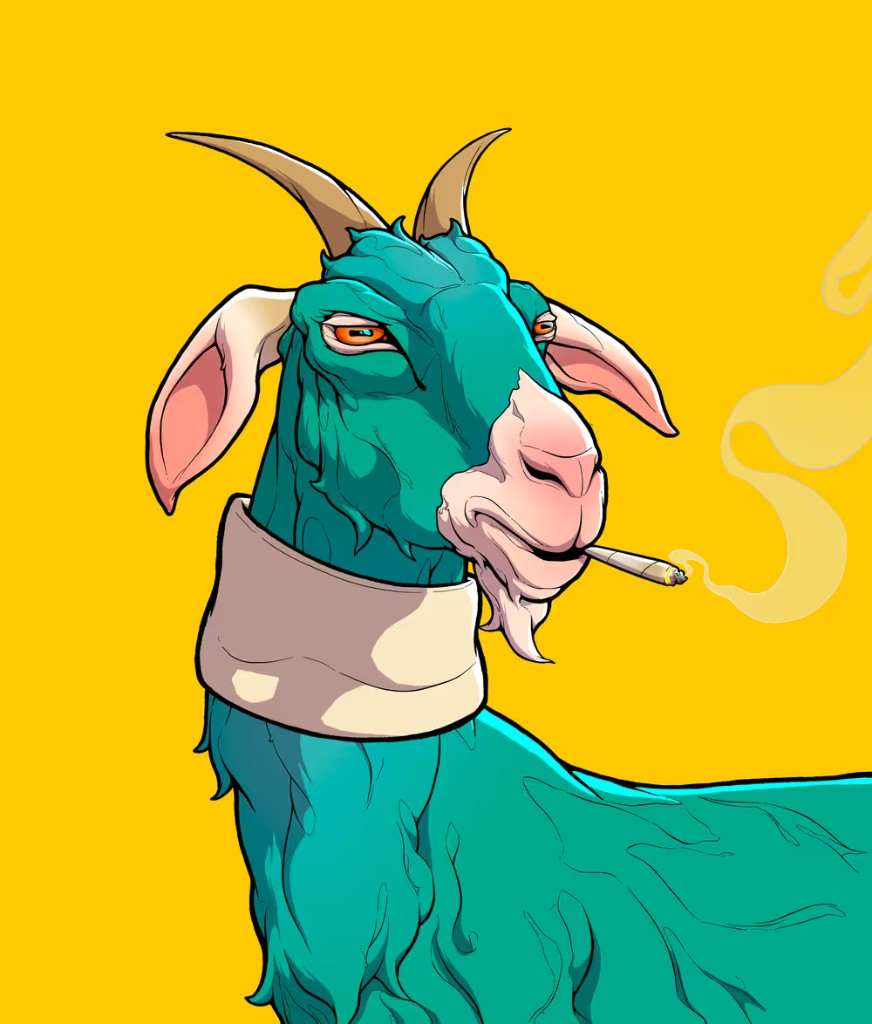
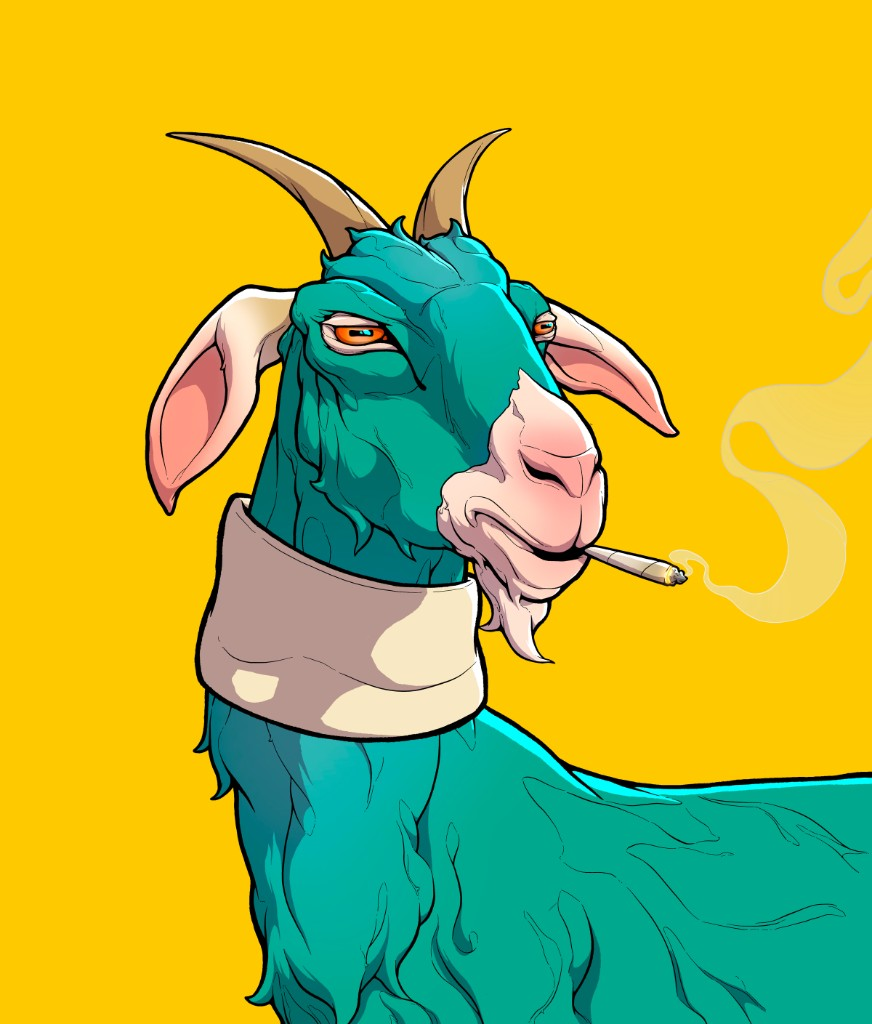
Add centered Team page cards with hover scale and blue names

diff --git a/src/styles/components/team-page.css b/src/styles/components/team-page.css
@@ -1,0 +1,60 @@
+.c-team-page {
+  min-height: 100%;
+  padding: clamp(2rem, 6vh, 4rem) clamp(1.25rem, 4vw, 3.5rem);
+}
+
+.c-team-grid {
+  max-width: 70rem;
+  margin: 0 auto;
+  display: grid;
+  grid-template-columns: repeat(2, minmax(0, 1fr));
+  gap: clamp(1.5rem, 4vw, 2.5rem);
+  justify-items: center;
+}
+
+.c-team-card {
+  width: min(100%, 24rem);
+  display: flex;
+  flex-direction: column;
+  align-items: center;
+  text-align: center;
+}
+
+.c-team-card__image {
+  width: min(100%, 22rem);
+  border-radius: 1rem;
+  object-fit: cover;
+  transition: transform 180ms ease;
+  transform-origin: center;
+}
+
+.c-team-card:hover .c-team-card__image,
+.c-team-card:focus-within .c-team-card__image {
+  transform: scale(1.04);
+}
+
+.c-team-card__name {
+  margin: 0.9rem 0 0;
+  font-family: var(--font-display);
+  font-size: clamp(1.2rem, 2.8vw, 1.8rem);
+  font-weight: var(--font-weight-bold);
+  letter-spacing: 0.05em;
+  color: var(--color-accent-soft);
+  text-transform: uppercase;
+}
+
+.c-team-card__role {
+  margin: 0.35rem 0 0;
+  font-family: var(--font-display);
+  font-size: clamp(0.75rem, 1.6vw, 0.95rem);
+  font-weight: var(--font-weight-semibold);
+  letter-spacing: 0.08em;
+  color: rgba(229, 231, 235, 0.88);
+  text-transform: none;
+}
+
+@media (max-width: 860px) {
+  .c-team-grid {
+    grid-template-columns: 1fr;
+  }
+}

diff --git a/src/pages/TeamPage.jsx b/src/pages/TeamPage.jsx
@@ -1,0 +1,30 @@
+const TEAM_MEMBERS = [
+  {
+    name: 'J00BA',
+    role: 'WEB3 / ART / Game Dev',
+    imageSrc: '/team-j00ba.png',
+    imageAlt: 'J00BA character artwork',
+  },
+  {
+    name: 'Melvolio',
+    role: 'Game Dev / Server',
+    imageSrc: '/team-melvolio.png',
+    imageAlt: 'Melvolio character artwork',
+  },
+];
+
+export default function TeamPage() {
+  return (
+    <section className="c-team-page" aria-label="The Team">
+      <div className="c-team-grid">
+        {TEAM_MEMBERS.map((member) => (
+          <article key={member.name} className="c-team-card">
+            <img className="c-team-card__image" src={member.imageSrc} alt={member.imageAlt} loading="lazy" />
+            <h2 className="c-team-card__name">{member.name}</h2>
+            <p className="c-team-card__role">{member.role}</p>
+          </article>
+        ))}
+      </div>
+    </section>
+  );
+}

diff --git a/src/App.jsx b/src/App.jsx
@@ -1,5 +1,6 @@
 import { Fragment, useEffect, useState } from 'react';
 import ProjectPage from './pages/ProjectPage';
+import TeamPage from './pages/TeamPage';
 
 const NAV_SECTIONS = [
   {
@@ -35,6 +36,7 @@ const NAV_SECTIONS = [
 function getPageFromHash() {
   const hash = window.location.hash.replace('#', '');
   if (hash === 'the-project') return 'the-project';
+  if (hash === 'the-team') return 'the-team';
   return 'home';
 }
 
@@ -155,7 +157,7 @@ export default function App() {
         </nav>
       </aside>
       <main className="l-page__main" aria-label="Main content">
-        {page === 'the-project' ? <ProjectPage /> : null}
+        {page === 'the-project' ? <ProjectPage /> : page === 'the-team' ? <TeamPage /> : null}
       </main>
     </div>
   );

diff --git a/src/index.css b/src/index.css
@@ -4,3 +4,4 @@
 @import './styles/layout.css';
 @import './styles/components/sidebar.css';
 @import './styles/components/project-page.css';
+@import './styles/components/team-page.css';
